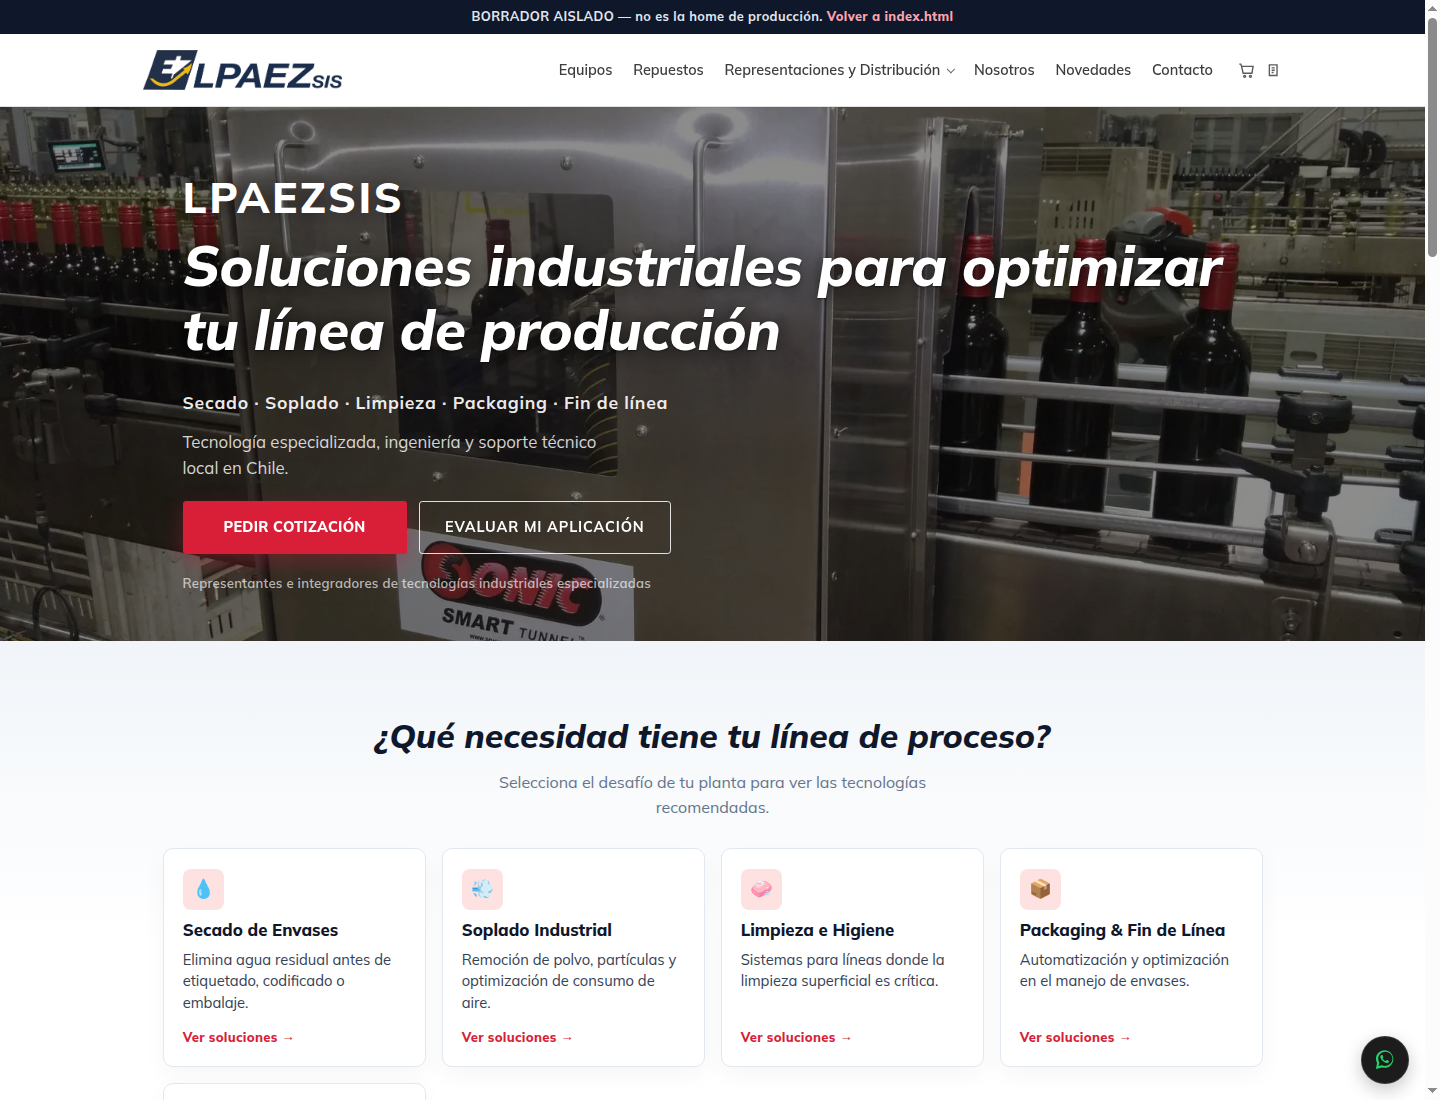
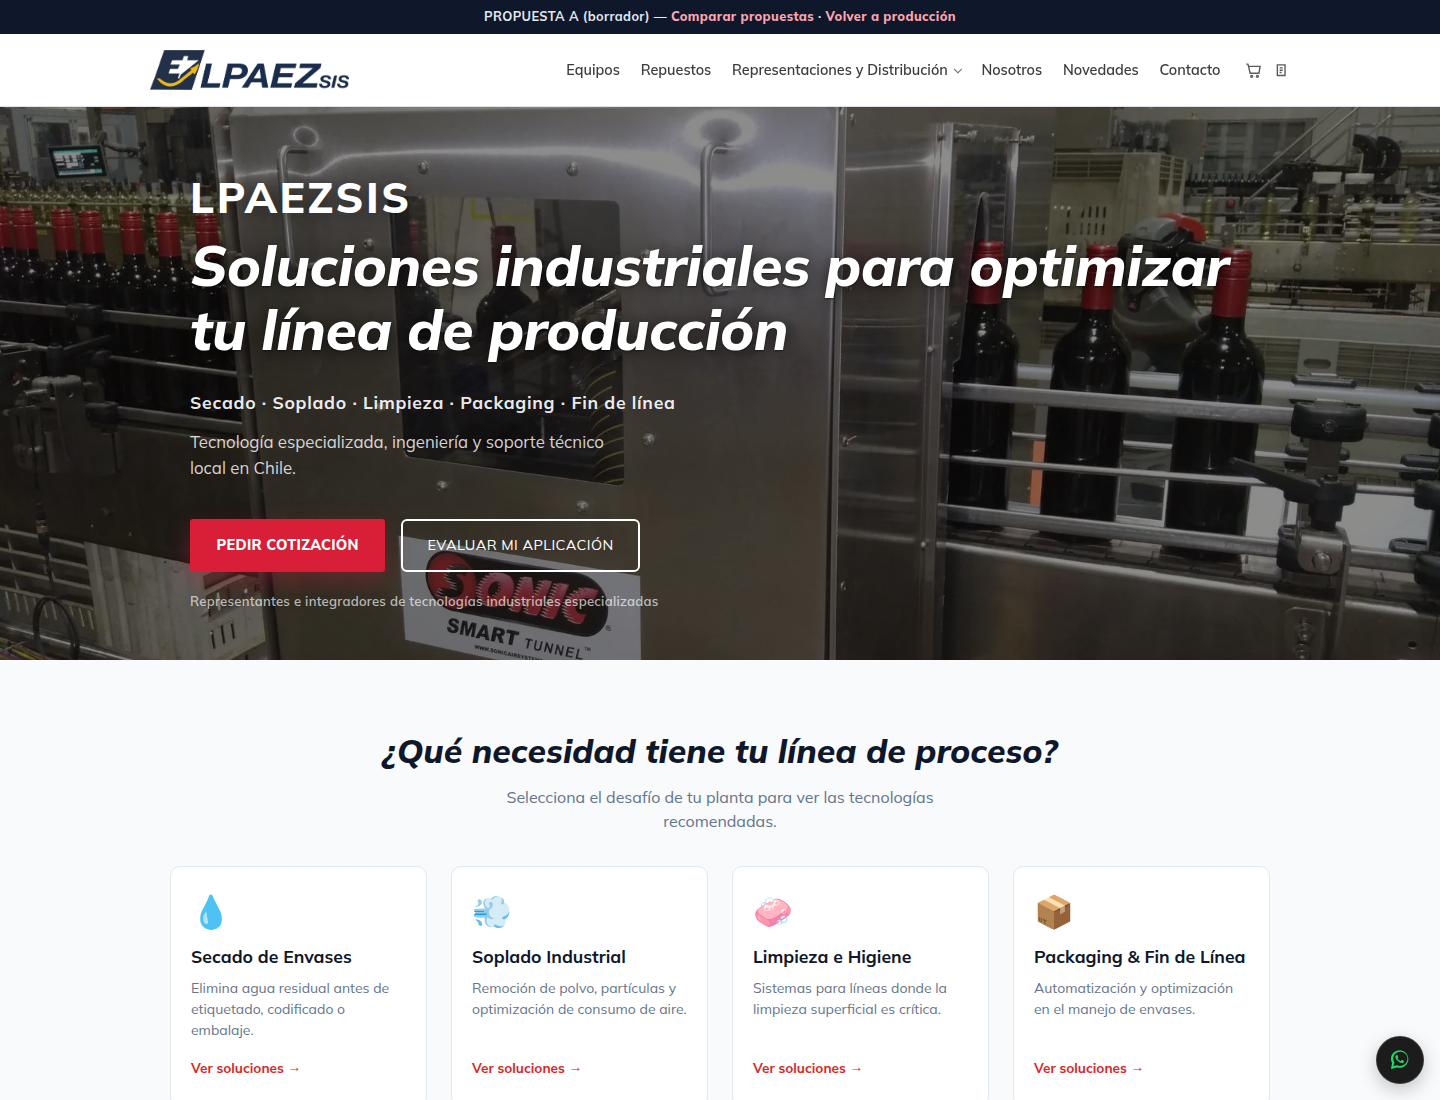
Apply local test styles to home proposal A
Integrate provided solutions-grid and dual hero CTA CSS
into propuesta-home.css; wire hero-cta-group markup.

diff --git a/site/css/propuesta-home.css b/site/css/propuesta-home.css
@@ -60,13 +60,6 @@
   color: rgba(255, 255, 255, 0.82);
 }
 
-.prop-hero__actions {
-  display: flex;
-  flex-wrap: wrap;
-  gap: 0.75rem;
-  margin-top: 0.35rem;
-}
-
 .prop-hero__micro {
   margin: 0.35rem 0 0;
   font-size: 0.82rem;
@@ -75,23 +68,43 @@
   color: rgba(255, 255, 255, 0.68);
 }
 
-.prop-btn-asesoria {
-  border-color: rgba(255, 255, 255, 0.85);
+/* --- ESTILOS DE PRUEBA LOCAL PARA HOME PROPUESTA --- */
+
+/* Doble CTA Hero */
+.hero-cta-group {
+  display: flex;
+  gap: 1rem;
+  flex-wrap: wrap;
+  margin-top: 1.5rem;
+}
+
+.btn-secondary-outline {
+  border: 2px solid #ffffff;
   color: #ffffff;
   background: transparent;
+  padding: 0.75rem 1.5rem;
+  font-weight: 700;
+  border-radius: 6px;
+  text-decoration: none;
+  cursor: pointer;
+  font: inherit;
+  font-size: 0.9rem;
+  letter-spacing: 0.03em;
+  transition: all 0.2s ease;
+  display: inline-flex;
+  align-items: center;
+  justify-content: center;
 }
 
-.prop-btn-asesoria:hover {
-  background: rgba(255, 255, 255, 0.12);
-  border-color: #ffffff;
-  color: #ffffff;
+.btn-secondary-outline:hover {
+  background: #ffffff;
+  color: #0f172a;
 }
 
-/* ——— Resuelve por aplicación ——— */
+/* Módulo por Aplicaciones */
 .home-solutions-section {
-  background:
-    linear-gradient(180deg, #f1f5f9 0%, var(--prop-white) 42%, var(--prop-white) 100%);
-  padding: clamp(2.75rem, 6vw, 4.25rem) 1.25rem;
+  padding: 4rem 1.5rem;
+  background-color: #f8fafc;
 }
 
 .home-solutions-section .container {
@@ -103,11 +116,7 @@
   display: block;
   border-bottom: 0;
   padding-bottom: 0;
-  margin-bottom: 1.75rem;
-  text-align: center;
-}
-
-.home-solutions-section .section-header.text-center {
+  margin-bottom: 0;
   text-align: center;
 }
 
@@ -129,69 +138,54 @@
 .solutions-grid {
   display: grid;
   grid-template-columns: repeat(auto-fit, minmax(220px, 1fr));
-  gap: 1rem;
+  gap: 1.5rem;
+  margin-top: 2rem;
 }
 
 .solution-card {
-  display: flex;
-  flex-direction: column;
-  gap: 0.55rem;
-  padding: 1.25rem 1.2rem 1.15rem;
-  background: var(--prop-white);
-  border: 1px solid var(--prop-line);
+  background: #ffffff;
+  border: 1px solid #e2e8f0;
   border-radius: 10px;
+  padding: 1.75rem 1.25rem;
   text-decoration: none;
   color: inherit;
-  box-shadow: 0 8px 24px rgba(15, 23, 42, 0.04);
-  transition: transform 0.2s ease, border-color 0.2s ease, box-shadow 0.2s ease;
-  min-height: 100%;
+  transition: transform 0.25s ease, box-shadow 0.25s ease, border-color 0.25s ease;
+  display: flex;
+  flex-direction: column;
 }
 
 .solution-card:hover {
-  transform: translateY(-3px);
-  border-color: #cbd5e1;
-  box-shadow: 0 14px 32px rgba(15, 23, 42, 0.08);
+  transform: translateY(-4px);
+  box-shadow: 0 10px 25px rgba(0, 0, 0, 0.08);
+  border-color: #dc2626;
 }
 
 .solution-card__icon {
-  display: grid;
-  place-items: center;
-  width: 2.6rem;
-  height: 2.6rem;
-  border-radius: 8px;
-  background: #fee2e2;
-  color: var(--prop-red);
-  font-size: 1.15rem;
+  font-size: 2rem;
+  margin-bottom: 1rem;
   line-height: 1;
 }
 
 .solution-card h3 {
-  margin: 0;
-  font-size: 1.05rem;
-  font-weight: 800;
-  color: var(--prop-ink);
-  line-height: 1.25;
+  font-size: 1.1rem;
+  font-weight: 700;
+  color: #0f172a;
+  margin: 0 0 0.5rem;
 }
 
 .solution-card p {
+  font-size: 0.875rem;
+  color: #64748b;
+  line-height: 1.5;
+  flex-grow: 1;
   margin: 0;
-  flex: 1;
-  font-size: 0.92rem;
-  line-height: 1.45;
-  color: var(--prop-ink-soft);
 }
 
 .solution-link {
-  margin-top: 0.35rem;
-  font-size: 0.82rem;
-  font-weight: 750;
-  letter-spacing: 0.02em;
-  color: var(--prop-red);
-}
-
-.solution-card:hover .solution-link {
-  text-decoration: underline;
-  text-underline-offset: 0.15em;
+  margin-top: 1rem;
+  font-size: 0.85rem;
+  font-weight: 700;
+  color: #dc2626;
 }
 
 /* Banner aviso propuesta (solo local/preview) */

diff --git a/site/index-propuesta.html b/site/index-propuesta.html
@@ -12,7 +12,7 @@
   <link rel="preload" as="image" href="img/hero/line.jpg" fetchpriority="high">
   <!-- Base del sitio + hoja exclusiva de la propuesta (no tocar style.css de producción) -->
   <link rel="stylesheet" href="css/style.css?v=120">
-  <link rel="stylesheet" href="css/propuesta-home.css?v=1">
+  <link rel="stylesheet" href="css/propuesta-home.css?v=2">
 </head>
 <body class="prop-home">
   <a class="skip-link" href="#main">Saltar al contenido</a>
@@ -60,9 +60,9 @@
         <h1 class="prop-hero__title">Soluciones industriales para optimizar tu línea de producción</h1>
         <p class="prop-hero__subtitle">Secado · Soplado · Limpieza · Packaging · Fin de línea</p>
         <p class="prop-hero__lead">Tecnología especializada, ingeniería y soporte técnico local en Chile.</p>
-        <div class="prop-hero__actions hero-actions">
+        <div class="hero-cta-group">
           <a class="btn btn-primary btn-lg btn-cta-primary" href="contacto.html?motivo=cotizacion">PEDIR COTIZACIÓN</a>
-          <button type="button" class="btn btn-ghost btn-lg prop-btn-asesoria" id="propAsesoriaBtn" aria-haspopup="dialog" aria-controls="propAsesoriaModal">
+          <button type="button" class="btn-secondary-outline" id="propAsesoriaBtn" aria-haspopup="dialog" aria-controls="propAsesoriaModal">
             EVALUAR MI APLICACIÓN
           </button>
         </div>
